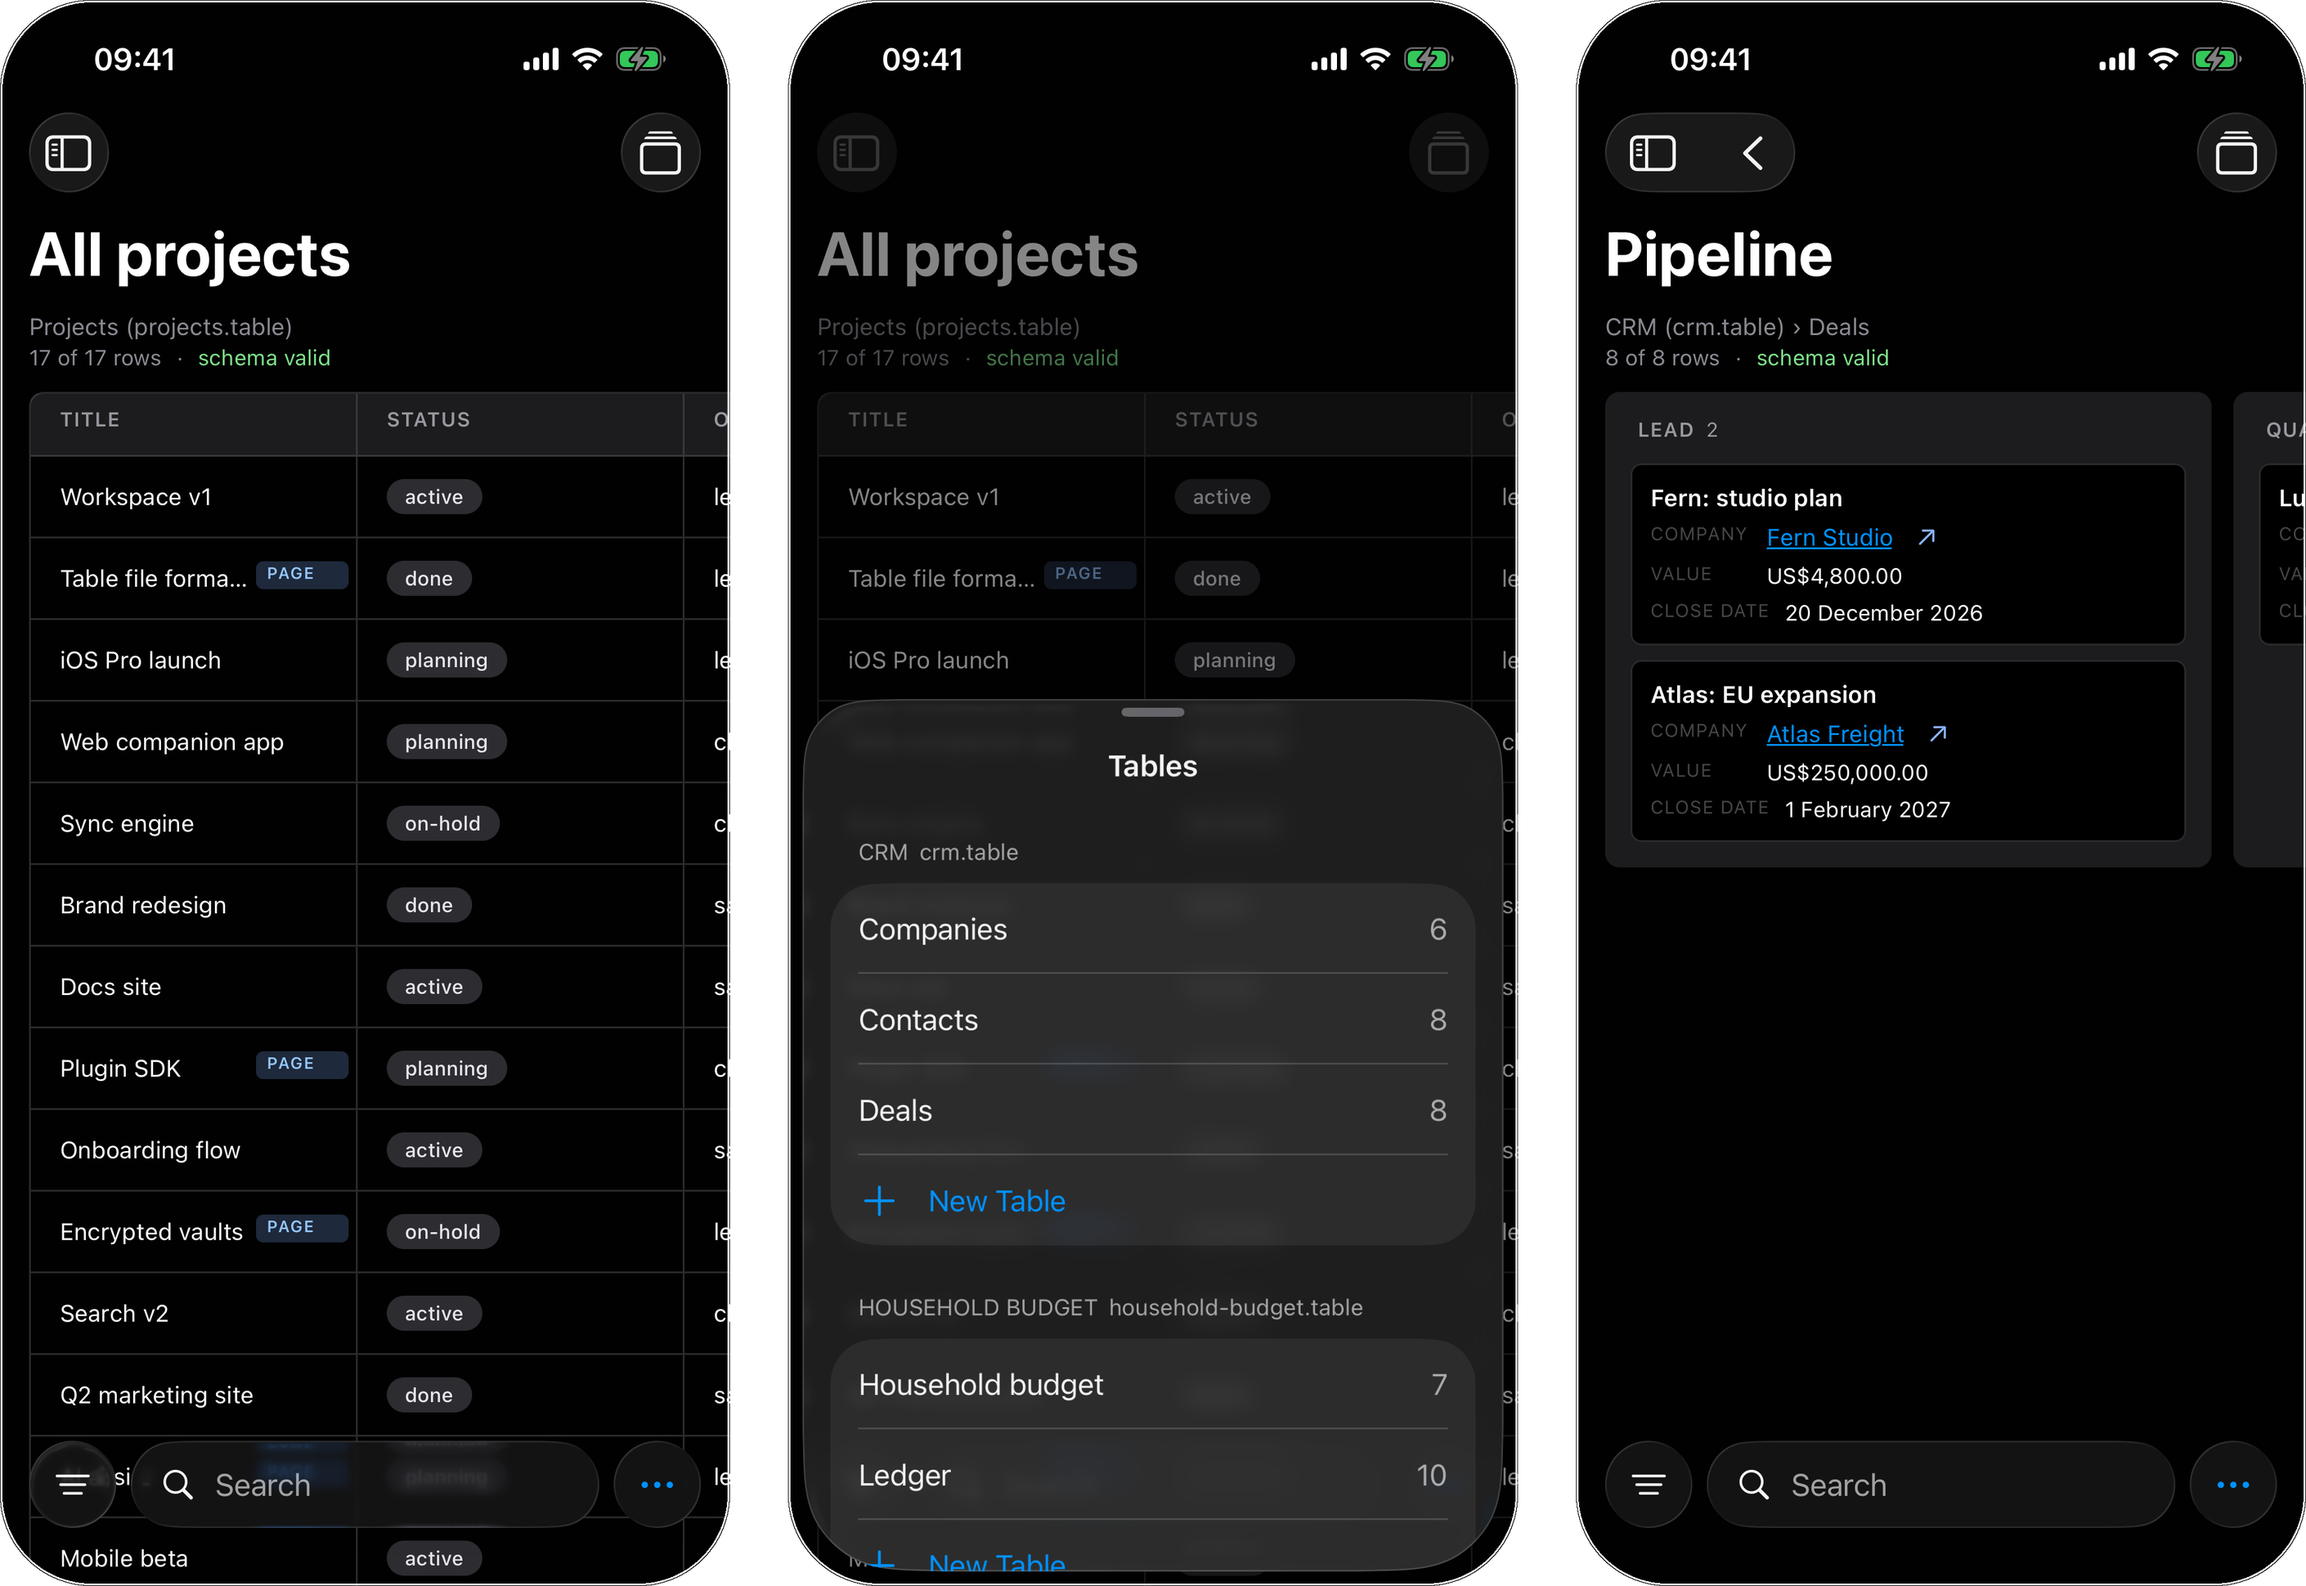
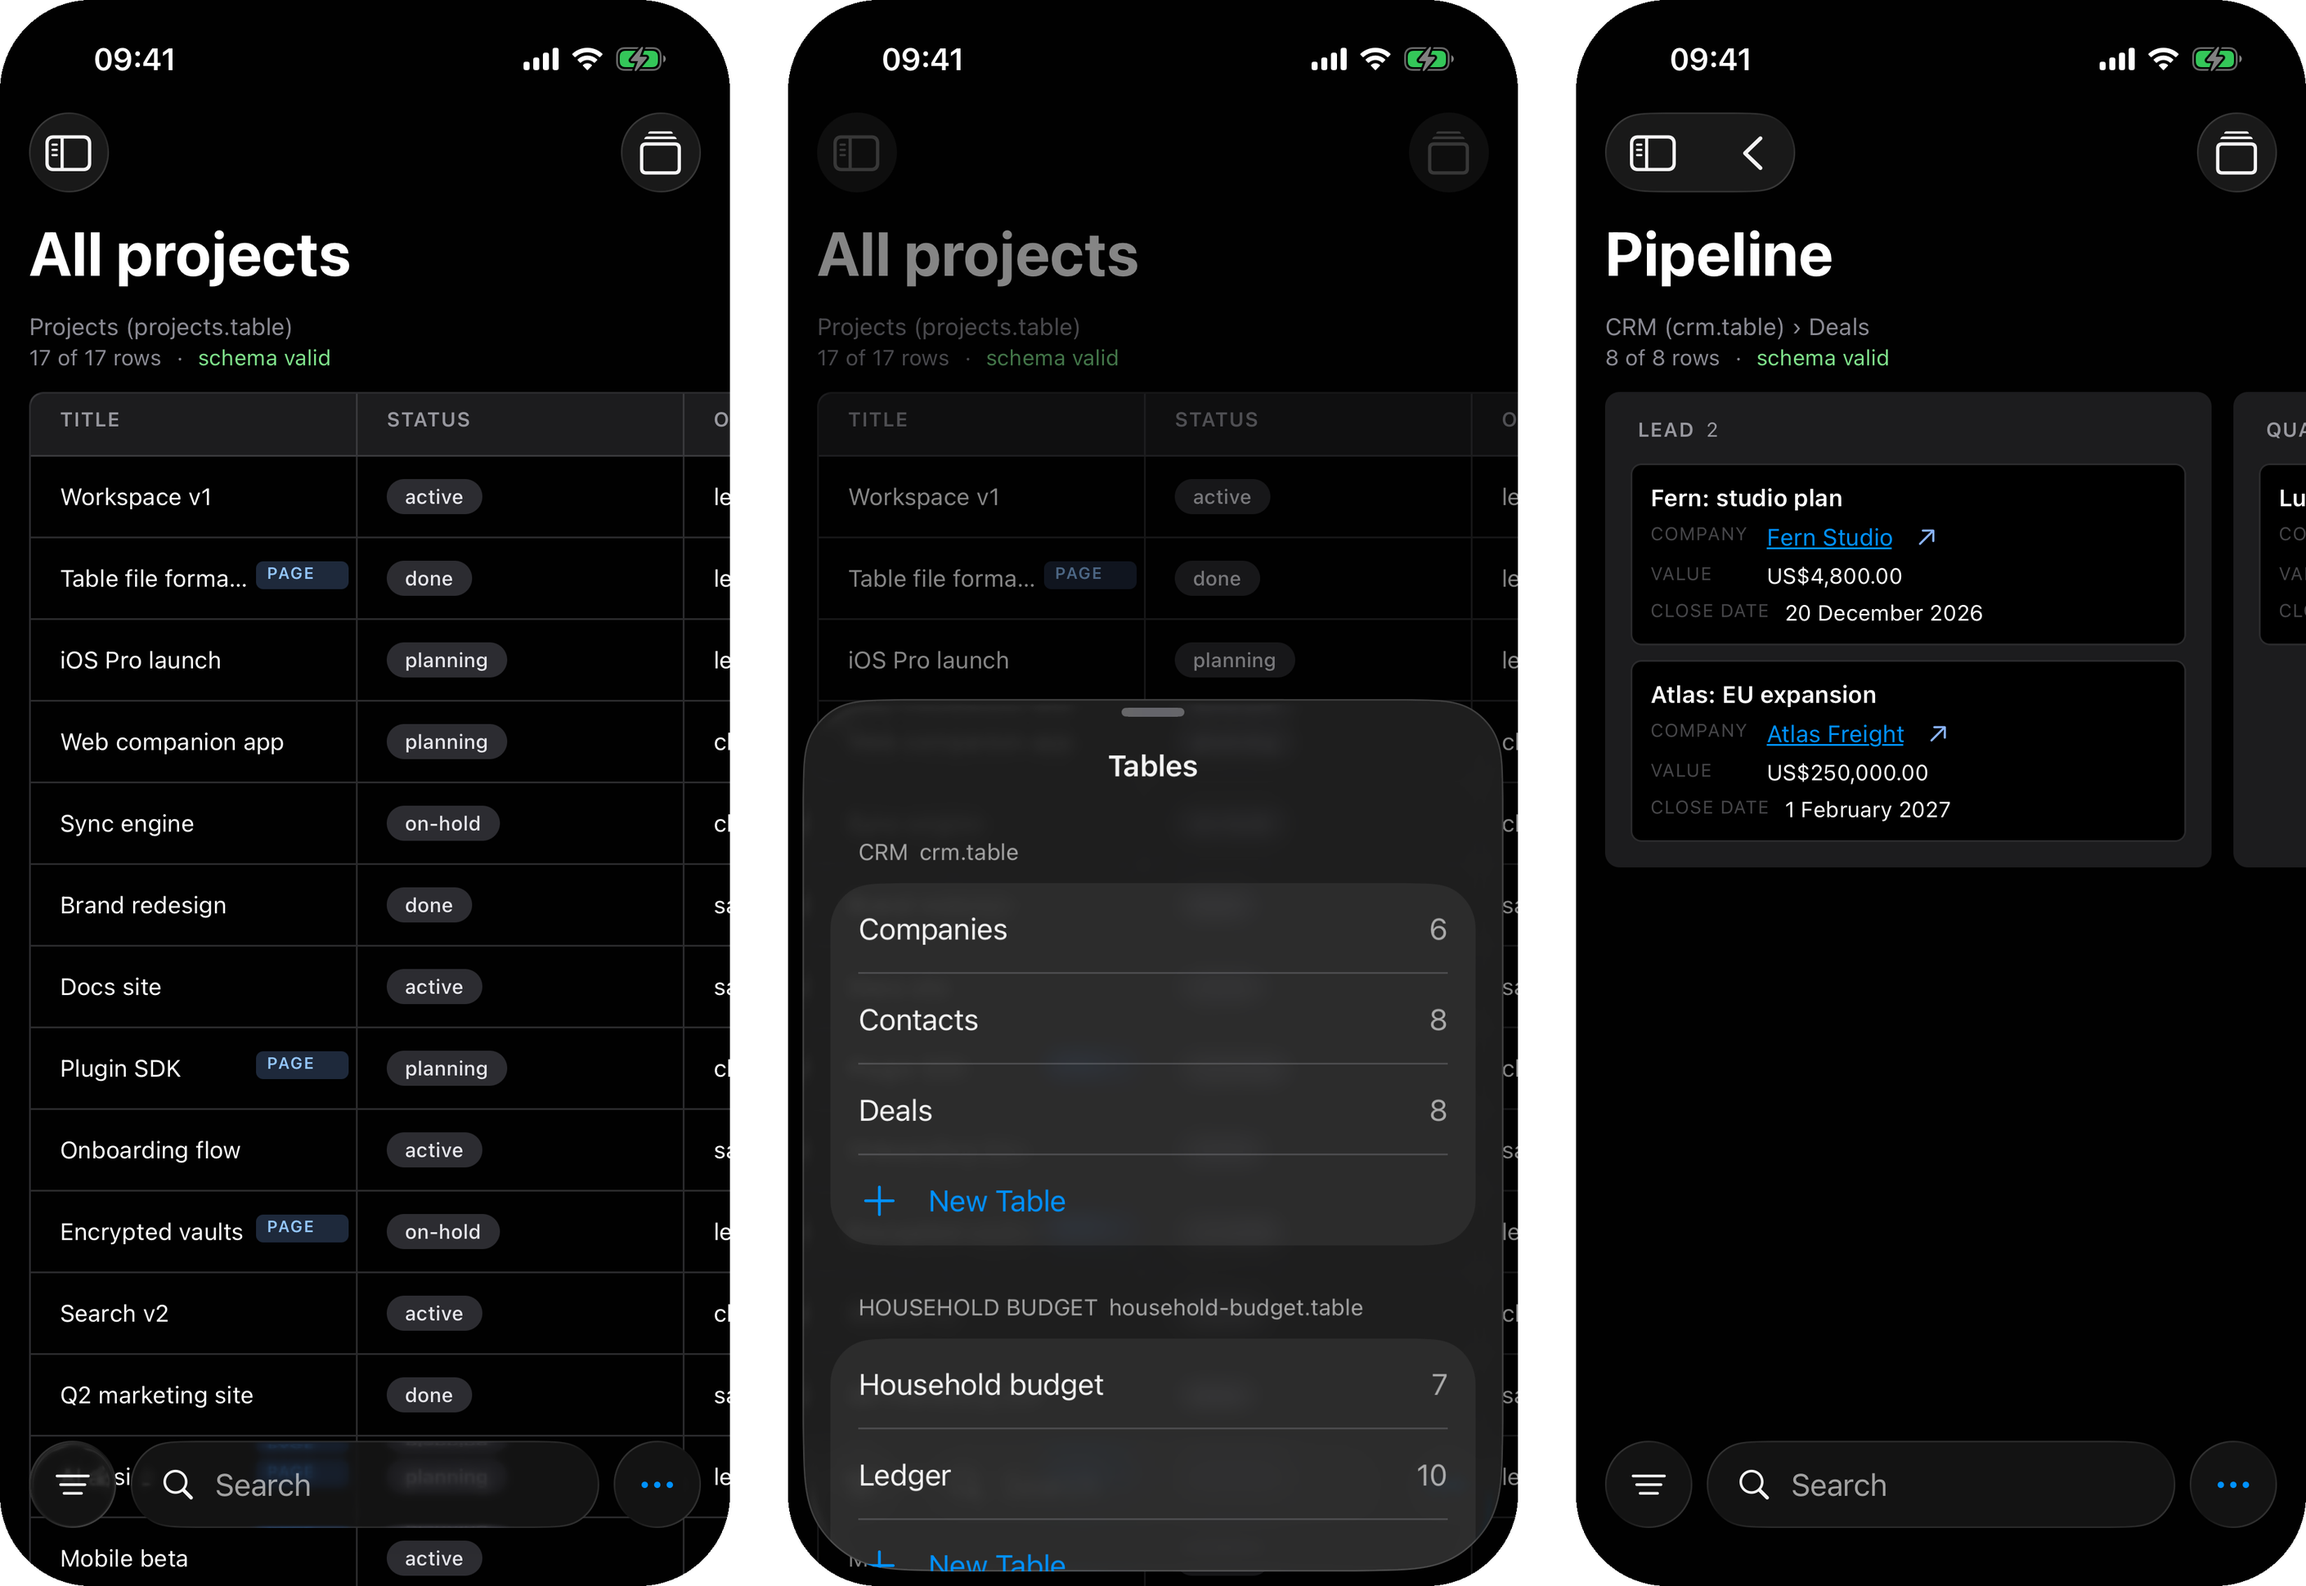
fix(home): remove borders around the app screenshots
Drop the CSS hairline on every screenshot, along with the frame classes
that only existed to shape it. The iOS strips had a phone outline drawn
into the images themselves; rebuild them from the raw captures without it.

diff --git a/src/styles/global.css b/src/styles/global.css
@@ -161,18 +161,6 @@ a:focus-visible {
   display: block;
   width: 100%;
   height: auto;
-  border: 1px solid color-mix(in srgb, var(--fg) 20%, transparent);
-}
-
-/* Window captures have transparent rounded corners; the radius is a share of
- * the image so the hairline follows the window at any size. */
-.platform.is-bare img {
-  border-radius: 1.15% / 1.95%;
-}
-
-/* Composed strips carry their own device outlines. */
-.platform.is-plain img {
-  border: none;
 }
 
 .platform figcaption {
